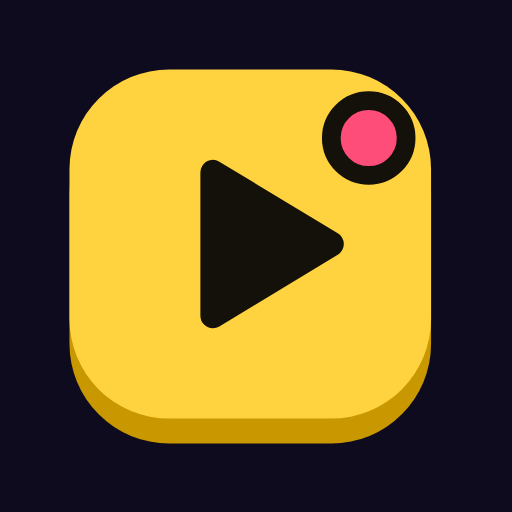
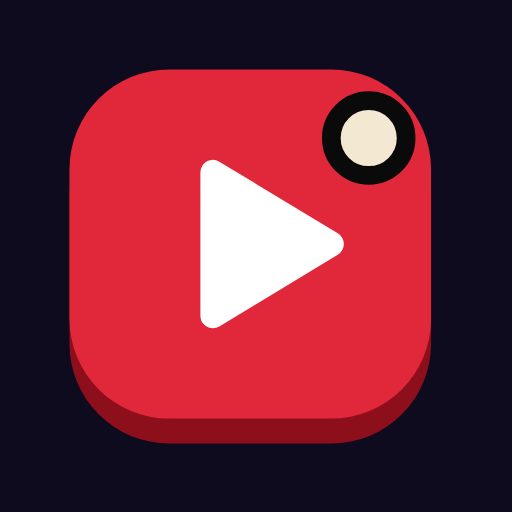
Redesign test: movie-theater colors (black + theater red)
- Palette: near-black background, theater red as the main accent, velvet red
  and marquee cream as secondary colors; white text on red
- Red logo tile with a cream bulb, favicon, app icons and share image
- Landing step tiles red / cream / velvet; red closing banner; cream ratings

Claude-Session: https://claude.ai/code/session_01YRoCT9o9LLtouUjNqFm9QB

diff --git a/src/components/Landing.jsx b/src/components/Landing.jsx
@@ -112,13 +112,13 @@ export default function Landing({ onStart, returning, savedCount, section, conne
           <SectionHeading eyebrow="How it works" title="Three steps to your next favorite show" />
           <div className="mt-12 grid gap-5 md:grid-cols-3">
             {[
-              ['bg-pop', 'Pick your services', 'Netflix, HBO Max, Hulu and more — tap the ones you already pay for.', '📺'],
-              ['bg-cherry', 'Tell us what you like', 'Rate shows you’ve watched, or just tap genres like Comedy or Horror.', '❤'],
-              ['bg-sky', 'Watch something great', 'Get picks you’ll actually like, with what’s on your services first.', '🍿'],
+              ['bg-pop text-white', 'Pick your services', 'Netflix, HBO Max, Hulu and more — tap the ones you already pay for.', '📺'],
+              ['bg-sky text-[#1A0A0D]', 'Tell us what you like', 'Rate shows you’ve watched, or just tap genres like Comedy or Horror.', '❤'],
+              ['bg-cherry text-white', 'Watch something great', 'Get picks you’ll actually like, with what’s on your services first.', '🍿'],
             ].map(([bg, title, body, emoji], i) => (
-              <div key={title} className={`relative rounded-3xl ${bg} p-6 text-[#14100A] shadow-[0_6px_0_rgba(0,0,0,.35)] sm:p-7`}>
+              <div key={title} className={`relative rounded-3xl ${bg} p-6 shadow-[0_6px_0_rgba(0,0,0,.45)] sm:p-7`}>
                 <div className="flex items-center justify-between">
-                  <span className="flex h-11 w-11 items-center justify-center rounded-full bg-[#14100A] font-display text-lg font-extrabold text-white">
+                  <span className="flex h-11 w-11 items-center justify-center rounded-full bg-[#0A0A0B] font-display text-lg font-extrabold text-white">
                     {i + 1}
                   </span>
                   <span className="text-3xl" aria-hidden>
@@ -126,7 +126,7 @@ export default function Landing({ onStart, returning, savedCount, section, conne
                   </span>
                 </div>
                 <h3 className="mt-6 text-2xl font-extrabold">{title}</h3>
-                <p className="mt-2 text-[15px] font-medium leading-relaxed text-black/75">{body}</p>
+                <p className="mt-2 text-[15px] font-medium leading-relaxed opacity-80">{body}</p>
               </div>
             ))}
           </div>
@@ -157,13 +157,13 @@ export default function Landing({ onStart, returning, savedCount, section, conne
             <SectionHeading align="left" eyebrow="Why ShowFinder" title="Recommendations that actually fit" />
             <ul className="mt-8 space-y-6">
               {[
-                [Wand2, 'bg-pop', 'Picks that match your taste', 'Built from what fans of your favorites also loved, plus shared themes — not just “it’s also a drama.”'],
-                [Tv, 'bg-cherry', 'Only what you can watch', 'Titles on your services come first, so you never sign up for something new to watch one show.'],
-                [MousePointerClick, 'bg-sky', 'One tap to start watching', 'See where a title streams, where it’s free, and where to rent it — then jump straight there, or send it to your TV.'],
-                [Lock, 'bg-mint', 'Private by default', 'No account, no sign-up. Your services and ratings stay in your browser.'],
+                [Wand2, 'bg-pop text-white', 'Picks that match your taste', 'Built from what fans of your favorites also loved, plus shared themes — not just “it’s also a drama.”'],
+                [Tv, 'bg-cherry text-white', 'Only what you can watch', 'Titles on your services come first, so you never sign up for something new to watch one show.'],
+                [MousePointerClick, 'bg-sky text-[#1A0A0D]', 'One tap to start watching', 'See where a title streams, where it’s free, and where to rent it — then jump straight there, or send it to your TV.'],
+                [Lock, 'bg-white/10 text-white', 'Private by default', 'No account, no sign-up. Your services and ratings stay in your browser.'],
               ].map(([Icon, bg, title, body]) => (
                 <li key={title} className="flex gap-4">
-                  <span className={`mt-0.5 flex h-10 w-10 shrink-0 items-center justify-center rounded-xl ${bg} text-[#14100A]`}>
+                  <span className={`mt-0.5 flex h-10 w-10 shrink-0 items-center justify-center rounded-xl ${bg}`}>
                     <Icon size={19} strokeWidth={2.4} />
                   </span>
                   <div>
@@ -198,15 +198,15 @@ export default function Landing({ onStart, returning, savedCount, section, conne
 
       {/* Final CTA */}
       <section className="px-4 py-16 sm:py-24">
-        <div className="relative mx-auto max-w-5xl overflow-hidden rounded-[2rem] bg-pop px-6 py-14 text-center text-[#14100A] sm:py-16">
+        <div className="relative mx-auto max-w-5xl overflow-hidden rounded-[2rem] bg-pop px-6 py-14 text-center text-white shadow-[0_8px_0_#8E0F1C] sm:py-16">
           <span className="pointer-events-none absolute -left-6 -top-6 h-24 w-24 rounded-full bg-cherry" />
-          <span className="pointer-events-none absolute -bottom-8 -right-4 h-28 w-28 rounded-full bg-sky" />
+          <span className="pointer-events-none absolute -bottom-8 -right-4 h-28 w-28 rounded-full bg-black/30" />
           <h2 className="relative text-4xl sm:text-5xl">Ready for your next binge?</h2>
-          <p className="relative mx-auto mt-3 max-w-md text-[17px] font-medium text-black/70">
+          <p className="relative mx-auto mt-3 max-w-md text-[17px] font-medium text-white/85">
             About a minute to set up. No account, no credit card.
           </p>
           <button
-            className="relative mt-8 inline-flex items-center gap-2 rounded-2xl bg-[#14100A] px-7 py-3.5 text-base font-bold text-white shadow-[0_4px_0_rgba(0,0,0,.35)] transition hover:-translate-y-0.5 active:translate-y-0.5"
+            className="relative mt-8 inline-flex items-center gap-2 rounded-2xl bg-[#0A0A0B] px-7 py-3.5 text-base font-bold text-white shadow-[0_4px_0_rgba(0,0,0,.35)] transition hover:-translate-y-0.5 active:translate-y-0.5"
             onClick={onStart}
           >
             {cta} <ArrowRight size={18} />
@@ -282,11 +282,11 @@ function ProductPreview() {
   ]
   return (
     <div className="relative mx-auto w-full max-w-md">
-      <div className="pointer-events-none absolute -right-3 -top-3 h-full w-full rounded-3xl bg-cherry" />
+      <div className="pointer-events-none absolute -right-3 -top-3 h-full w-full rounded-3xl bg-pop" />
       <div className="relative overflow-hidden rounded-3xl border-2 border-white/10 bg-ink-surface shadow-2xl">
         <div className="flex gap-4 p-5">
           <div className="flex aspect-[2/3] w-24 shrink-0 items-end rounded-xl bg-gradient-to-br from-pop via-cherry to-grape p-2 ring-1 ring-white/10">
-            <span className="text-[10px] font-semibold uppercase tracking-wider text-black/80">Better Call Saul</span>
+            <span className="text-[10px] font-semibold uppercase tracking-wider text-white/90">Better Call Saul</span>
           </div>
           <div className="min-w-0">
             <p className="eyebrow !text-[10px]">Because you liked Breaking Bad</p>

diff --git a/src/index.css b/src/index.css
@@ -2,18 +2,18 @@
 @tailwind components;
 @tailwind utilities;
 
-/* ---------- Design tokens (movie-night palette) ---------- */
+/* ---------- Design tokens (movie-theater palette) ---------- */
 :root {
-  --bg: #0e0b1f;
-  --surface: #17132d;
-  --surface-2: #221c42;
+  --bg: #0a0a0b;
+  --surface: #141214;
+  --surface-2: #1e1a1d;
   --line: rgba(255, 255, 255, 0.09);
-  --pop: #ffd23f;
-  --pop-deep: #c99700;
-  --cherry: #ff4d7a;
-  --sky: #45c4f5;
-  --grape: #9b7bff;
-  --mint: #2ee6a8;
+  --pop: #e0283a;
+  --pop-deep: #8e0f1c;
+  --cherry: #9b1020;
+  --sky: #f3e9d2;
+  --grape: #2a2427;
+  --mint: #6e1420;
   --gold: var(--pop); /* legacy name */
   color-scheme: dark;
 }
@@ -22,7 +22,7 @@ html { scroll-behavior: smooth; -webkit-tap-highlight-color: transparent; }
 body { @apply font-sans text-zinc-100 antialiased; }
 h1, h2, h3, .font-display { font-family: 'Bricolage Grotesque', system-ui, sans-serif; letter-spacing: -0.015em; }
 h1, h2 { font-weight: 800; }
-::selection { background: rgba(255, 210, 63, 0.4); color: #fff; }
+::selection { background: rgba(224, 40, 58, 0.45); color: #fff; }
 :focus-visible { outline: 2px solid var(--pop); outline-offset: 2px; }
 
 /* Brand text (logo wordmark, highlights) */
@@ -30,7 +30,7 @@ h1, h2 { font-weight: 800; }
 
 /* Marker-pen highlight behind a word */
 .highlight {
-  background: linear-gradient(transparent 58%, rgba(255, 77, 122, 0.85) 58%, rgba(255, 77, 122, 0.85) 92%, transparent 92%);
+  background: linear-gradient(transparent 58%, rgba(224, 40, 58, 0.9) 58%, rgba(224, 40, 58, 0.9) 92%, transparent 92%);
   padding: 0 0.08em;
 }
 
@@ -40,8 +40,8 @@ h1, h2 { font-weight: 800; }
   border-radius: 14px; padding: .75rem 1.4rem; font-weight: 700; font-size: .95rem; line-height: 1.25rem;
   transition: transform .12s, box-shadow .12s, background .2s, border-color .2s, color .2s; white-space: nowrap;
 }
-.btn-gold { color: #14100a; background: var(--pop); box-shadow: 0 4px 0 var(--pop-deep); }
-.btn-gold:hover { transform: translateY(-1px); box-shadow: 0 5px 0 var(--pop-deep); background: #ffda5c; }
+.btn-gold { color: #fff; background: var(--pop); box-shadow: 0 4px 0 var(--pop-deep); }
+.btn-gold:hover { transform: translateY(-1px); box-shadow: 0 5px 0 var(--pop-deep); background: #ee3a4b; }
 .btn-gold:active { transform: translateY(3px); box-shadow: 0 1px 0 var(--pop-deep); }
 .btn-outline { color: #f4f4f5; border: 2px solid rgba(255, 255, 255, .16); background: rgba(255, 255, 255, .04); }
 .btn-outline:hover { border-color: rgba(255, 255, 255, .34); background: rgba(255, 255, 255, .08); }
@@ -53,7 +53,7 @@ h1, h2 { font-weight: 800; }
 /* Little colored tag above a heading */
 .eyebrow {
   display: inline-block; border-radius: 9999px; padding: .2rem .7rem; font-size: .78rem; font-weight: 700;
-  color: var(--pop); background: rgba(255, 210, 63, .14);
+  color: #ff6b78; background: rgba(224, 40, 58, .16);
 }
 
 /* Surfaces */

diff --git a/src/genres.js b/src/genres.js
@@ -2,17 +2,17 @@
 // Romance genres), so each button maps to the right IDs per type.
 export const GENRES = [
   { id: 'comedy', name: 'Comedy', emoji: '😂', color: 'bg-pop', movie: [35], tv: [35] },
-  { id: 'action', name: 'Action', emoji: '💥', color: 'bg-cherry', movie: [28, 12], tv: [10759] },
-  { id: 'drama', name: 'Drama', emoji: '🎭', color: 'bg-grape', movie: [18], tv: [18] },
-  { id: 'crime', name: 'Crime', emoji: '🕵', color: 'bg-sky', movie: [80], tv: [80] },
-  { id: 'scifi', name: 'Sci-Fi & Fantasy', emoji: '🚀', color: 'bg-mint', movie: [878, 14], tv: [10765] },
-  { id: 'thriller', name: 'Thriller', emoji: '🔪', color: 'bg-cherry', movie: [53], tv: [] },
-  { id: 'horror', name: 'Horror', emoji: '👻', color: 'bg-grape', movie: [27], tv: [] },
-  { id: 'romance', name: 'Romance', emoji: '💕', color: 'bg-cherry', movie: [10749], tv: [] },
-  { id: 'mystery', name: 'Mystery', emoji: '🔍', color: 'bg-sky', movie: [9648], tv: [9648] },
+  { id: 'action', name: 'Action', emoji: '💥', color: 'bg-pop', movie: [28, 12], tv: [10759] },
+  { id: 'drama', name: 'Drama', emoji: '🎭', color: 'bg-pop', movie: [18], tv: [18] },
+  { id: 'crime', name: 'Crime', emoji: '🕵', color: 'bg-pop', movie: [80], tv: [80] },
+  { id: 'scifi', name: 'Sci-Fi & Fantasy', emoji: '🚀', color: 'bg-pop', movie: [878, 14], tv: [10765] },
+  { id: 'thriller', name: 'Thriller', emoji: '🔪', color: 'bg-pop', movie: [53], tv: [] },
+  { id: 'horror', name: 'Horror', emoji: '👻', color: 'bg-pop', movie: [27], tv: [] },
+  { id: 'romance', name: 'Romance', emoji: '💕', color: 'bg-pop', movie: [10749], tv: [] },
+  { id: 'mystery', name: 'Mystery', emoji: '🔍', color: 'bg-pop', movie: [9648], tv: [9648] },
   { id: 'animation', name: 'Animation', emoji: '🎨', color: 'bg-pop', movie: [16], tv: [16] },
-  { id: 'family', name: 'Family', emoji: '👨👩👧', color: 'bg-mint', movie: [10751], tv: [10751, 10762] },
-  { id: 'documentary', name: 'Documentary', emoji: '🎥', color: 'bg-sky', movie: [99], tv: [99] },
+  { id: 'family', name: 'Family', emoji: '👨👩👧', color: 'bg-pop', movie: [10751], tv: [10751, 10762] },
+  { id: 'documentary', name: 'Documentary', emoji: '🎥', color: 'bg-pop', movie: [99], tv: [99] },
   { id: 'reality', name: 'Reality', emoji: '📺', color: 'bg-pop', movie: [], tv: [10764] },
 ]
 

diff --git a/src/components/TitleCard.jsx b/src/components/TitleCard.jsx
@@ -56,7 +56,7 @@ export default function TitleCard({ title, onSelect, services, providers, rating
             <div className="pointer-events-none absolute inset-x-0 bottom-0 h-16 bg-gradient-to-t from-black/70 to-transparent" />
             {title.rating > 0 && !r && (
               <span className="pointer-events-none absolute right-2 top-2 flex items-center gap-1 rounded-md bg-black/75 px-1.5 py-0.5 text-[11px] font-semibold backdrop-blur">
-                <Star size={11} className="fill-pop text-pop" /> {title.rating.toFixed(1)}
+                <Star size={11} className="fill-sky text-sky" /> {title.rating.toFixed(1)}
               </span>
             )}
           </div>
@@ -89,7 +89,7 @@ export default function TitleCard({ title, onSelect, services, providers, rating
                 key={k}
                 onClick={() => choose(k)}
                 className={`rounded-full px-3 py-1.5 text-sm transition ${
-                  rating === k ? 'bg-pop text-black' : 'bg-zinc-800 hover:bg-zinc-700'
+                  rating === k ? 'bg-pop text-white' : 'bg-zinc-800 hover:bg-zinc-700'
                 }`}
               >
                 {v.emoji} {v.label}

diff --git a/tailwind.config.js b/tailwind.config.js
@@ -4,13 +4,13 @@ export default {
   theme: {
     extend: {
       colors: {
-        // Movie-night palette
-        pop: { DEFAULT: '#FFD23F', soft: '#FFE68A', deep: '#C99700' }, // popcorn yellow
-        cherry: { DEFAULT: '#FF4D7A', deep: '#C8235A' },
-        sky: { DEFAULT: '#45C4F5', deep: '#1F8FC4' },
-        grape: { DEFAULT: '#9B7BFF', deep: '#6A48E0' },
-        mint: { DEFAULT: '#2EE6A8', deep: '#14A97A' },
-        ink: { DEFAULT: '#0E0B1F', surface: '#18132F', raised: '#231C44' },
+        // Movie-theater palette: black, theater red, velvet red, marquee cream
+        pop: { DEFAULT: '#E0283A', soft: '#FF7380', deep: '#8E0F1C' }, // theater red (main accent)
+        cherry: { DEFAULT: '#9B1020', deep: '#5E0812' }, // velvet curtain red
+        sky: { DEFAULT: '#F3E9D2', deep: '#C9B993' }, // marquee cream
+        grape: { DEFAULT: '#2A2427', deep: '#1A1618' }, // charcoal
+        mint: { DEFAULT: '#6E1420', deep: '#45080F' }, // maroon
+        ink: { DEFAULT: '#0A0A0B', surface: '#141214', raised: '#1E1A1D' },
       },
       fontFamily: {
         display: ['"Bricolage Grotesque"', 'system-ui', 'sans-serif'],

diff --git a/src/components/Logo.jsx b/src/components/Logo.jsx
@@ -1,11 +1,11 @@
-// Brand mark: a popcorn-yellow tile with a play button and a cherry "spark", plus the wordmark.
+// Brand mark: a theater-red tile with a play button and a cream marquee bulb, plus the wordmark.
 export function LogoMark({ className = 'h-8 w-8' }) {
   return (
     <svg viewBox="0 0 64 64" className={className} aria-hidden="true">
-      <rect x="2" y="6" width="58" height="56" rx="16" fill="#C99700" />
-      <rect x="2" y="2" width="58" height="56" rx="16" fill="#FFD23F" />
-      <path d="M25 18.5v23l19-11.5z" fill="#14100A" stroke="#14100A" strokeWidth="4" strokeLinejoin="round" />
-      <circle cx="50" cy="13" r="6" fill="#FF4D7A" stroke="#14100A" strokeWidth="3" />
+      <rect x="2" y="6" width="58" height="56" rx="16" fill="#8E0F1C" />
+      <rect x="2" y="2" width="58" height="56" rx="16" fill="#E0283A" />
+      <path d="M25 18.5v23l19-11.5z" fill="#FFFFFF" stroke="#FFFFFF" strokeWidth="4" strokeLinejoin="round" />
+      <circle cx="50" cy="13" r="6" fill="#F3E9D2" stroke="#0A0A0B" strokeWidth="3" />
     </svg>
   )
 }

diff --git a/src/components/TitleActions.jsx b/src/components/TitleActions.jsx
@@ -60,7 +60,7 @@ export function PosterBookmark({ title }) {
       aria-label={saved ? `Remove ${title.title} from watchlist` : `Add ${title.title} to watchlist`}
       title={saved ? 'On your watchlist' : 'Want to watch'}
       className={`absolute bottom-2 left-2 flex h-8 w-8 items-center justify-center rounded-full backdrop-blur transition ${
-        saved ? 'bg-pop text-black' : 'bg-black/75 text-white hover:bg-black sm:opacity-0 sm:group-hover:opacity-100 sm:focus:opacity-100'
+        saved ? 'bg-pop text-white' : 'bg-black/75 text-white hover:bg-black sm:opacity-0 sm:group-hover:opacity-100 sm:focus:opacity-100'
       }`}
     >
       {saved ? <BookmarkCheck size={16} /> : <Bookmark size={16} />}

diff --git a/src/components/Recommendations.jsx b/src/components/Recommendations.jsx
@@ -61,7 +61,7 @@ export default function Recommendations({ seed, region, serviceIds, library, onR
                 <button
                   key={k}
                   onClick={() => onRate(seed, seedRating === k ? null : k)}
-                  className={`rounded-full border px-3 py-1.5 text-sm transition ${seedRating === k ? 'border-pop bg-pop text-black' : 'border-white/10 bg-white/[.03] hover:border-white/25'}`}
+                  className={`rounded-full border px-3 py-1.5 text-sm transition ${seedRating === k ? 'border-pop bg-pop text-white' : 'border-white/10 bg-white/[.03] hover:border-white/25'}`}
                 >
                   {r.emoji} {r.label}
                 </button>

diff --git a/src/components/TitleSheet.jsx b/src/components/TitleSheet.jsx
@@ -94,7 +94,7 @@ export default function TitleSheet({ item, region, serviceIds, library, onRate, 
               <button
                 key={k}
                 onClick={() => onRate(t, rating === k ? null : k)}
-                className={`rounded-full border px-3 py-1.5 text-sm transition ${rating === k ? 'border-pop bg-pop text-black' : 'border-white/10 bg-white/[.03] hover:border-white/25'}`}
+                className={`rounded-full border px-3 py-1.5 text-sm transition ${rating === k ? 'border-pop bg-pop text-white' : 'border-white/10 bg-white/[.03] hover:border-white/25'}`}
               >
                 {r.emoji} {r.label}
               </button>

diff --git a/index.html b/index.html
@@ -5,7 +5,7 @@
     <meta name="viewport" content="width=device-width, initial-scale=1.0, viewport-fit=cover" />
     <title>ShowFinder — Find your next show on the services you already have</title>
     <meta name="description" content="Finished a show you loved? ShowFinder recommends similar shows and movies and shows you where to watch them — on the streaming services you already pay for. Free, no account." />
-    <meta name="theme-color" content="#0E0B1F" />
+    <meta name="theme-color" content="#0A0A0B" />
     <meta name="color-scheme" content="dark" />
 
     <link rel="icon" href="/favicon.svg" type="image/svg+xml" />

diff --git a/src/components/GenreChips.jsx b/src/components/GenreChips.jsx
@@ -22,7 +22,7 @@ export default function GenreChips({ selected, onChange, label }) {
               aria-pressed={active}
               className={`flex shrink-0 items-center gap-1.5 rounded-full border-2 px-3.5 py-1.5 text-sm font-semibold transition ${
                 active
-                  ? `border-transparent ${g.color} text-[#14100A] shadow-[0_3px_0_rgba(0,0,0,.35)]`
+                  ? `border-transparent ${g.color} text-white shadow-[0_3px_0_#8E0F1C]`
                   : 'border-white/10 bg-white/[.04] text-zinc-200 hover:border-white/30 hover:text-white'
               }`}
             >

diff --git a/src/components/ServicePicker.jsx b/src/components/ServicePicker.jsx
@@ -38,7 +38,7 @@ export default function ServicePicker({ selected, onSave, onCancel, firstRun }) 
                 >
                   <ServiceLogo service={s} />
                   {on && (
-                    <span className="absolute -right-2 -top-2 flex h-7 w-7 items-center justify-center rounded-full bg-pop text-sm font-bold text-black shadow">
+                    <span className="absolute -right-2 -top-2 flex h-7 w-7 items-center justify-center rounded-full bg-pop text-sm font-bold text-white shadow">
                       ✓
                     </span>
                   )}
